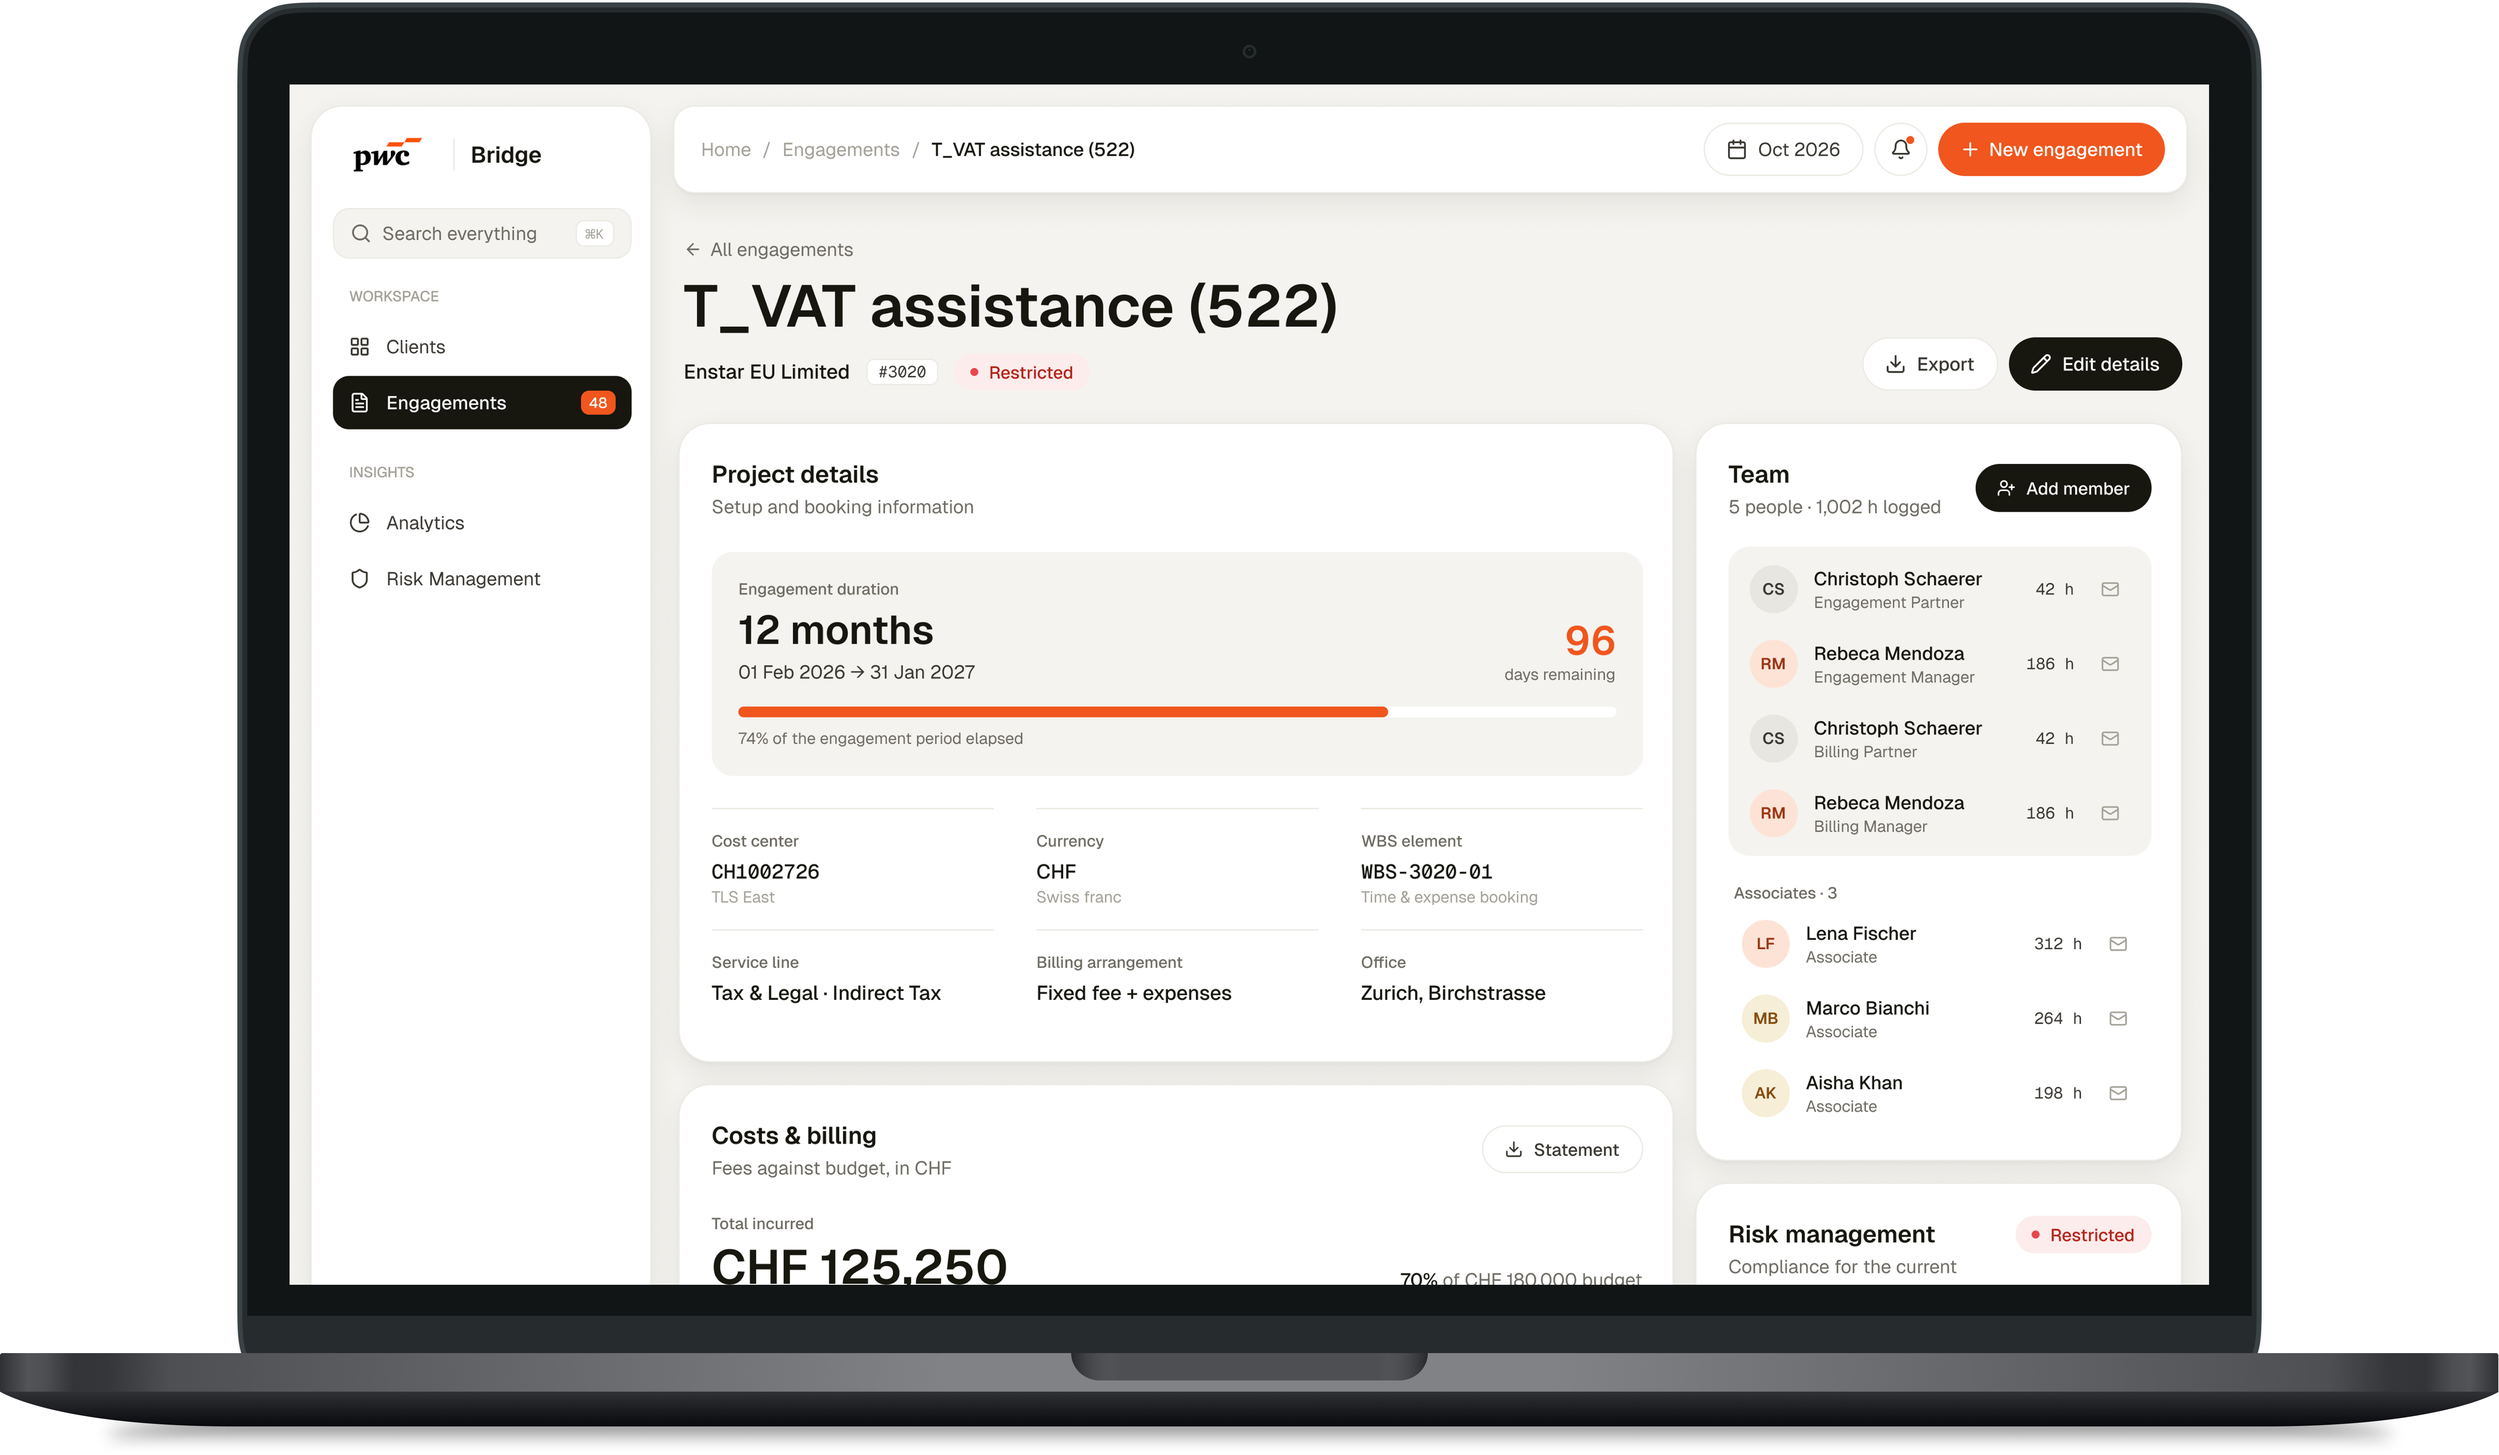
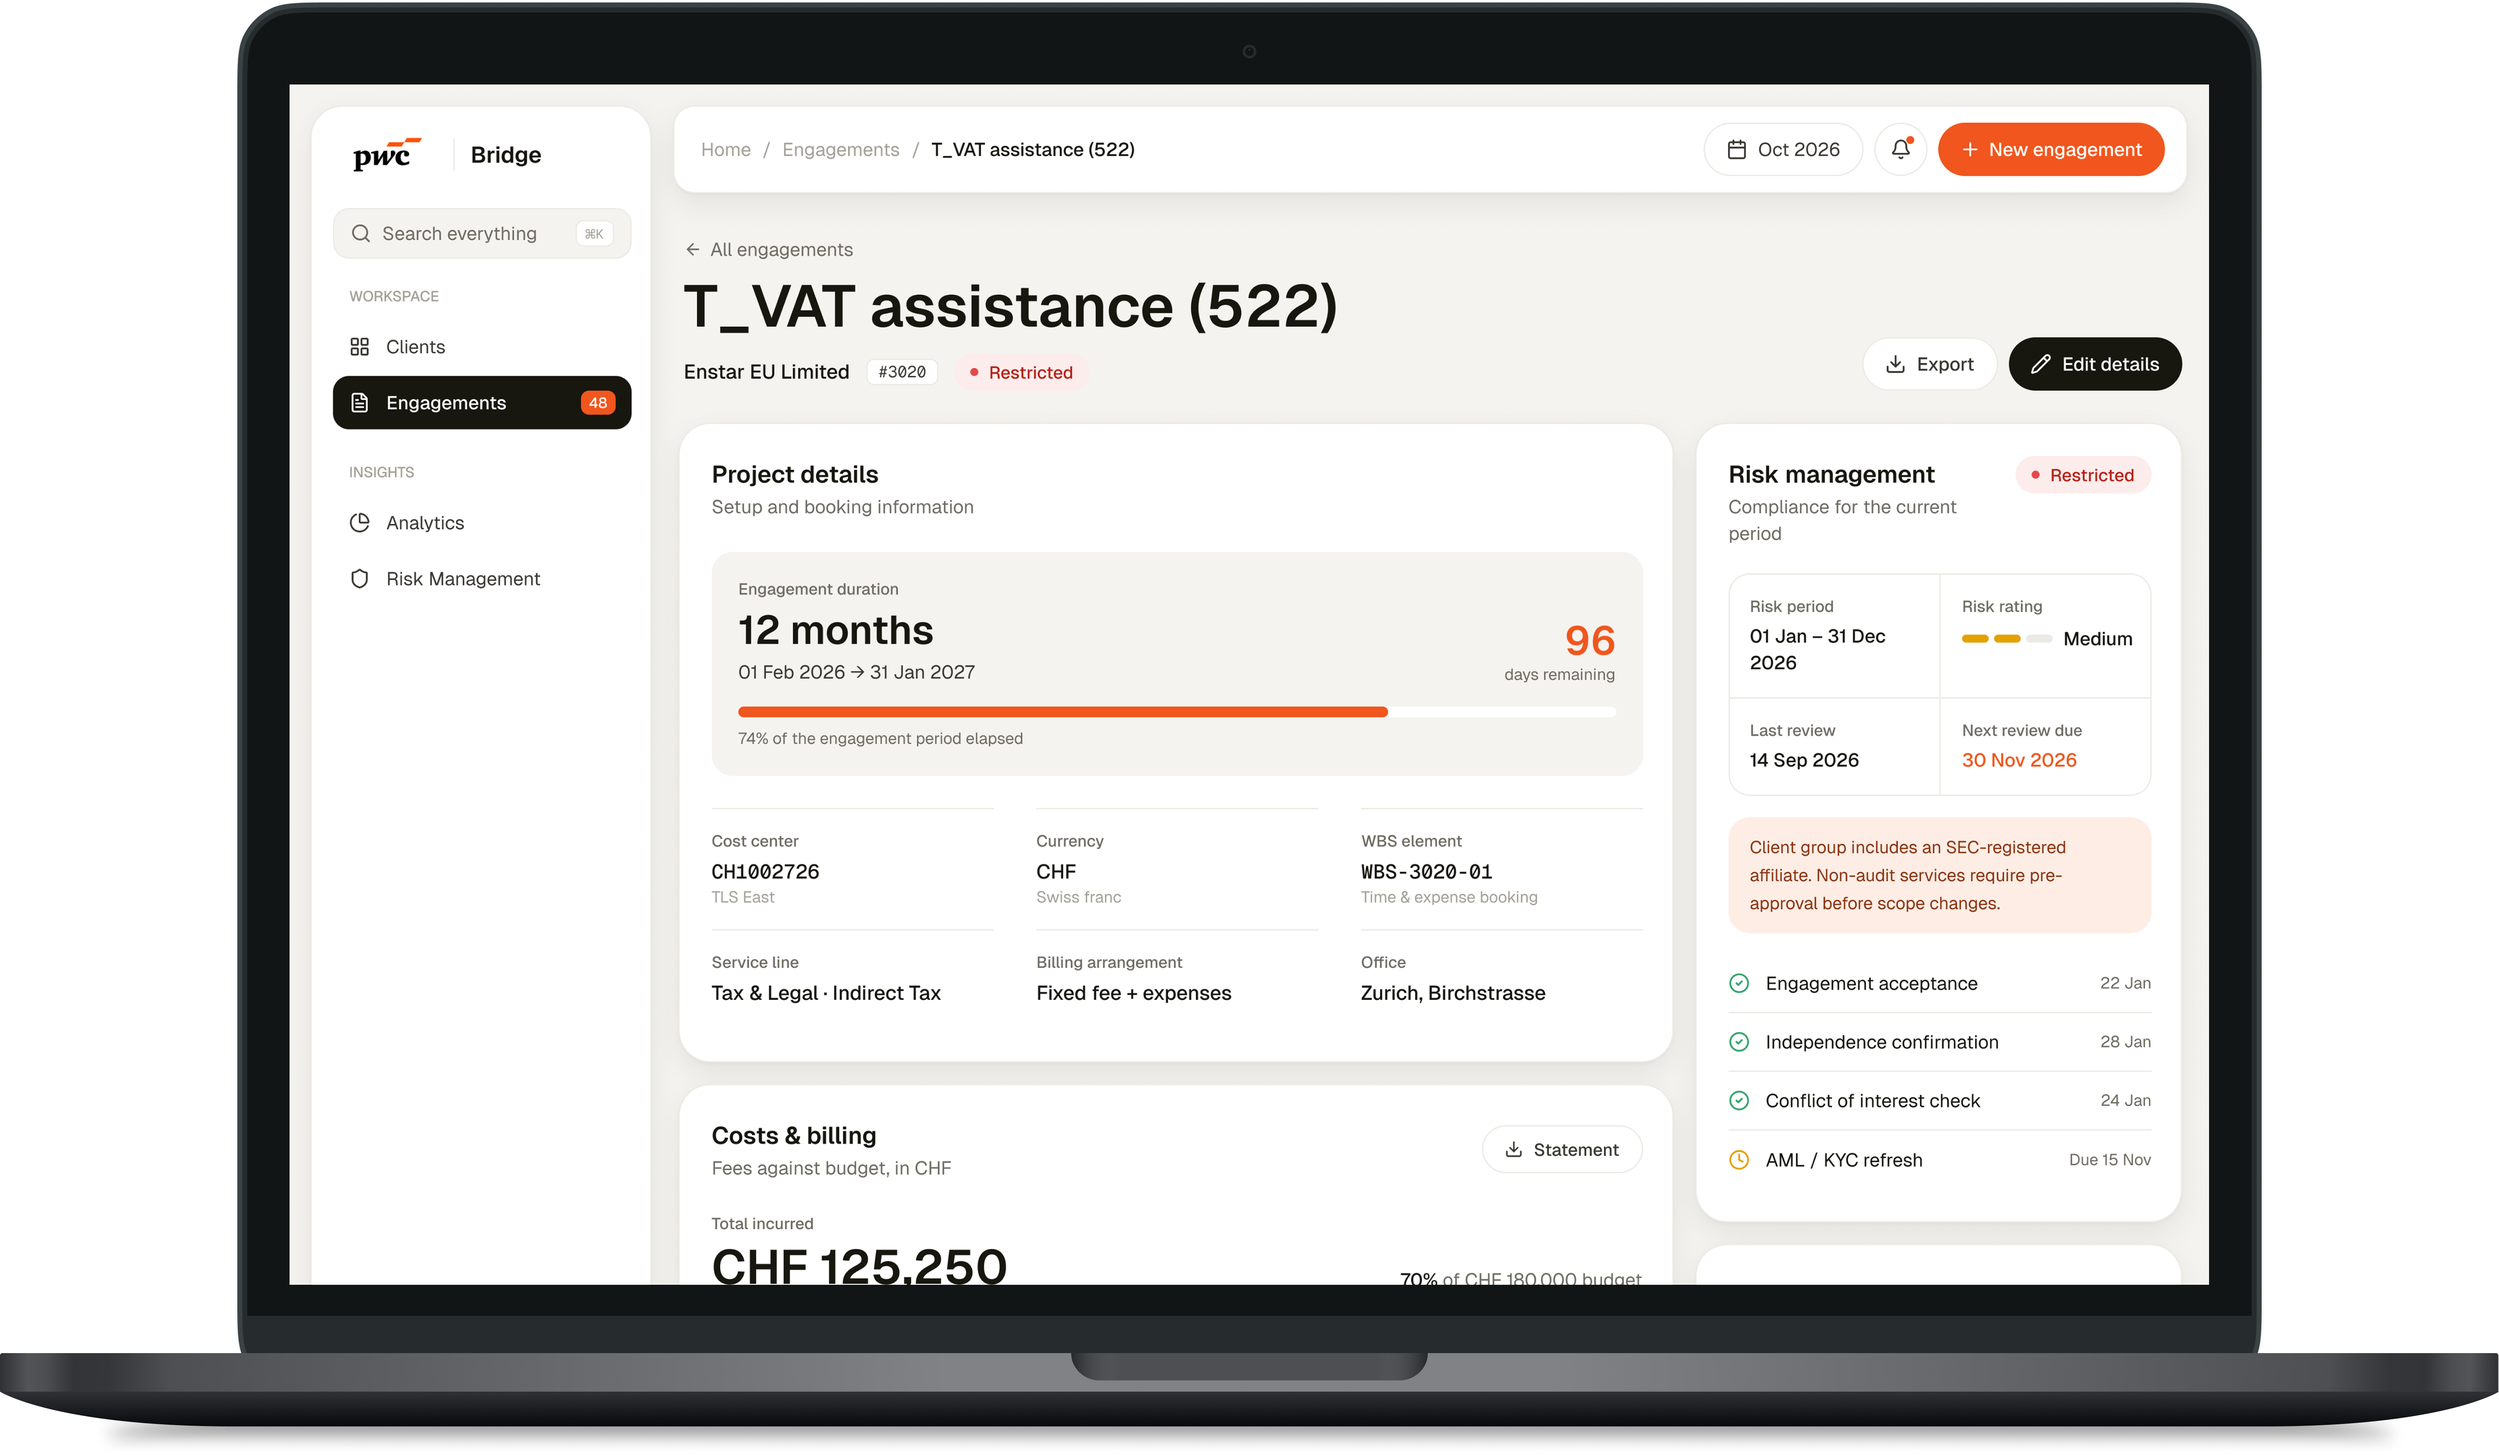
Update PwC engagement imagery and risk management cover

Changed region(s): [[0.6856, 0.3103, 0.8725, 0.8067], [0.6856, 0.8377, 0.8725, 0.8688]]

diff --git a/site/work/pwc-bridge/index.html b/site/work/pwc-bridge/index.html
@@ -15,14 +15,14 @@
   <meta property="og:url" content="https://ievasworld.com/work/pwc-bridge/" />
   <meta property="og:title" content="PwC Bridge — case study by Ieva Kirdaikytė" />
   <meta property="og:description" content="Lead UX/UI design for PwC Switzerland's internal Tax & Technology platform. From idea to launched product in under a year." />
-  <meta property="og:image" content="https://ievasworld.com/work/pwc-bridge/Zurich%20office%20laptop%20with%20engagement%20dashboard.png" />
-  <meta property="og:image:alt" content="PwC Bridge engagement dashboard on a laptop in a Zurich office" />
+  <meta property="og:image" content="https://ievasworld.com/work/pwc-bridge/Risk%20management%20dashboard%20on%20an%20office%20laptop.png" />
+  <meta property="og:image:alt" content="PwC Bridge risk management dashboard on an office laptop" />
 
   <!-- Twitter -->
   <meta name="twitter:card" content="summary_large_image" />
   <meta name="twitter:title" content="PwC Bridge — case study by Ieva Kirdaikytė" />
   <meta name="twitter:description" content="Lead UX/UI design for PwC Switzerland's internal Tax & Technology platform. From idea to launched product in under a year." />
-  <meta name="twitter:image" content="https://ievasworld.com/work/pwc-bridge/Zurich%20office%20laptop%20with%20engagement%20dashboard.png" />
+  <meta name="twitter:image" content="https://ievasworld.com/work/pwc-bridge/Risk%20management%20dashboard%20on%20an%20office%20laptop.png" />
 
   <link rel="preconnect" href="https://fonts.googleapis.com" />
   <link rel="preconnect" href="https://fonts.gstatic.com" crossorigin />
@@ -292,7 +292,7 @@
               </svg>
             </div>
             <div class="cs-pin-frame cs-pin-frame-matrix">
-              <img src="Engagement detail page mockup.png"
+              <img src="Engagement detail page mockup.png?v=56a13e77"
                    alt="PwC Bridge engagement detail page"
                    class="cs-pin-img" />
             </div>
@@ -333,7 +333,7 @@
           </div>
           <div class="cs-gallery-item">
             <div class="cs-img-slot">
-              <img src="New%20designs%202026%20/Engagemnt%20detail%20view.png"
+              <img src="New%20designs%202026%20/Engagemnt%20detail%20view.png?v=50ef60a4"
                    alt="Engagement detail view"
                    decoding="async" />
             </div>

diff --git a/site/scripts.js b/site/scripts.js
@@ -19,7 +19,7 @@ const PROJECTS = [
     bg:      'linear-gradient(135deg,#1e2c0e 0%,#2c3d12 100%)',
     accent:  '#8FA96B',
     href:    'work/pwc-bridge/',
-    image:   'work/pwc-bridge/Zurich office laptop with engagement dashboard.png',
+    image:   'work/pwc-bridge/Risk management dashboard on an office laptop.png',
   },
   {
     num: '02', total: '04',

diff --git a/site/index.html b/site/index.html
@@ -257,6 +257,6 @@
 
   <script src="https://cdnjs.cloudflare.com/ajax/libs/gsap/3.12.5/gsap.min.js"></script>
   <script src="https://cdnjs.cloudflare.com/ajax/libs/gsap/3.12.5/ScrollTrigger.min.js"></script>
-  <script src="scripts.js?v=36" defer></script>
+  <script src="scripts.js?v=37" defer></script>
 </body>
 </html>
